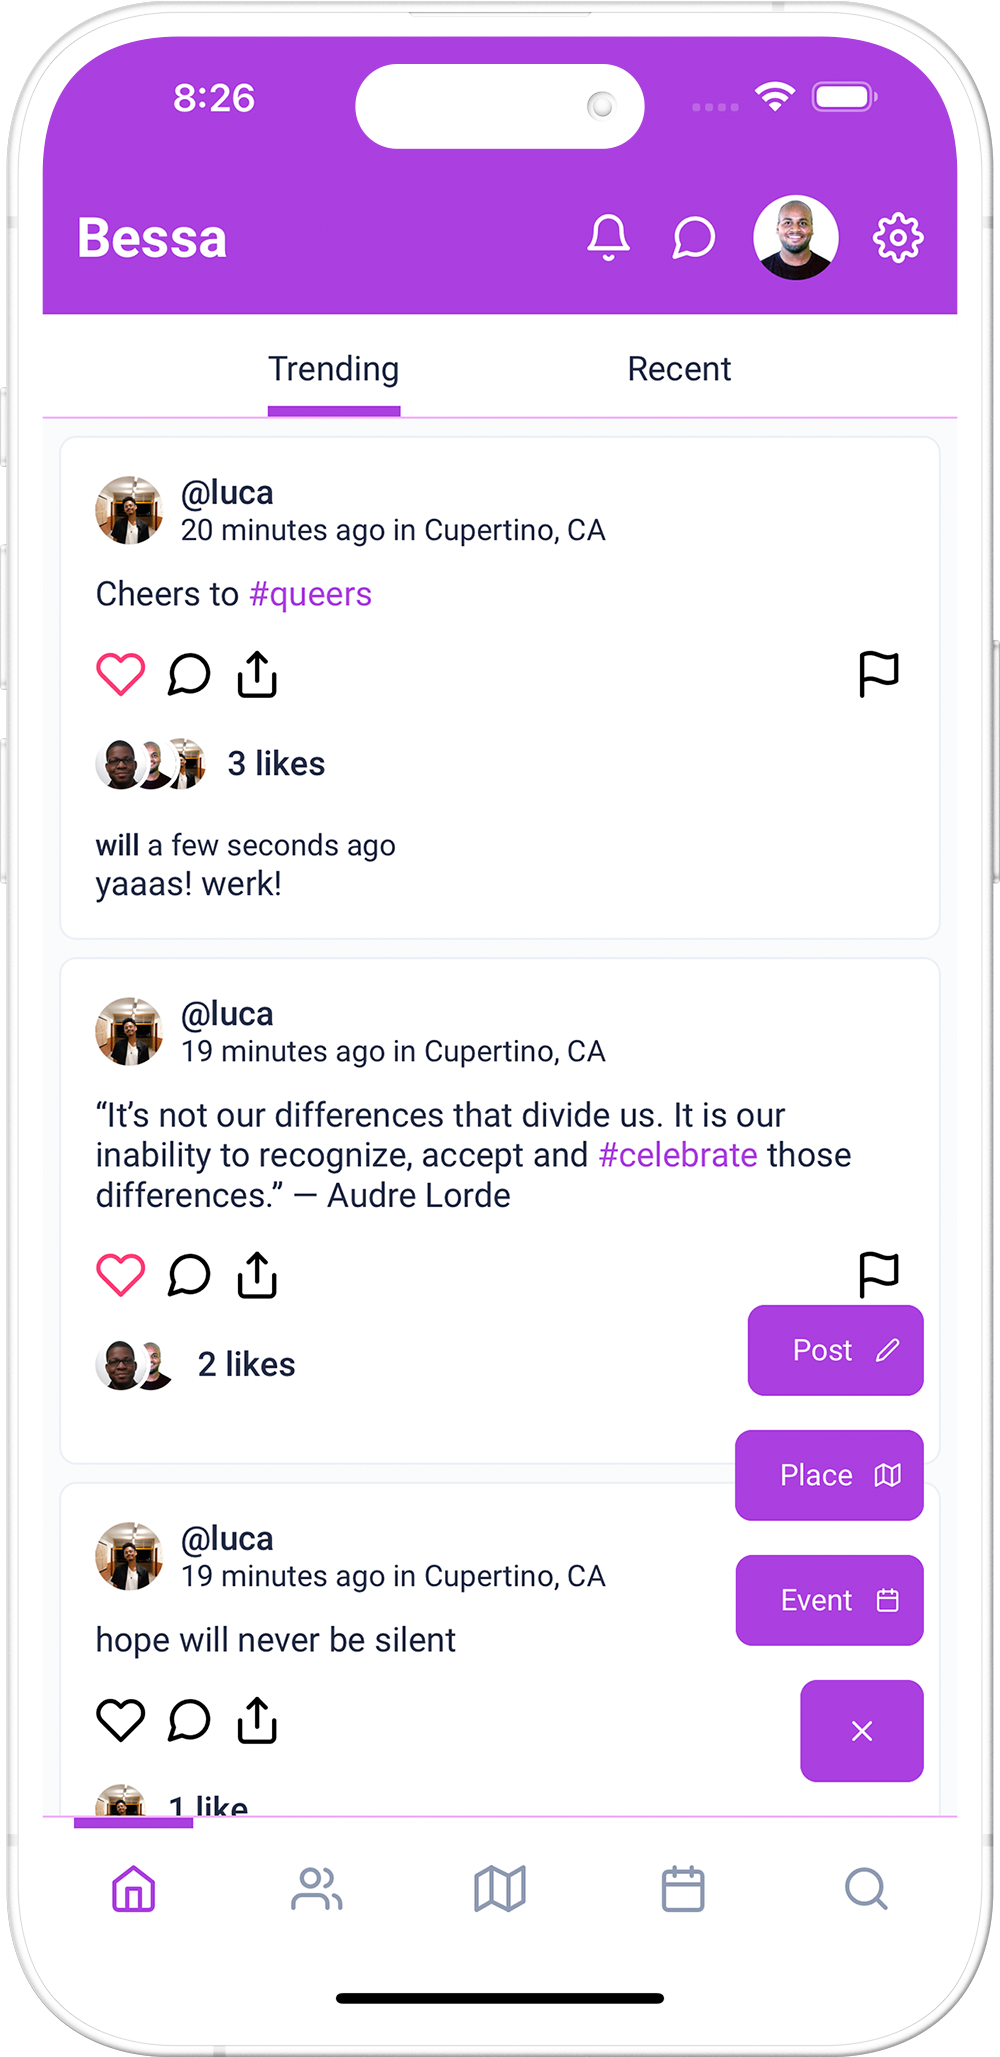
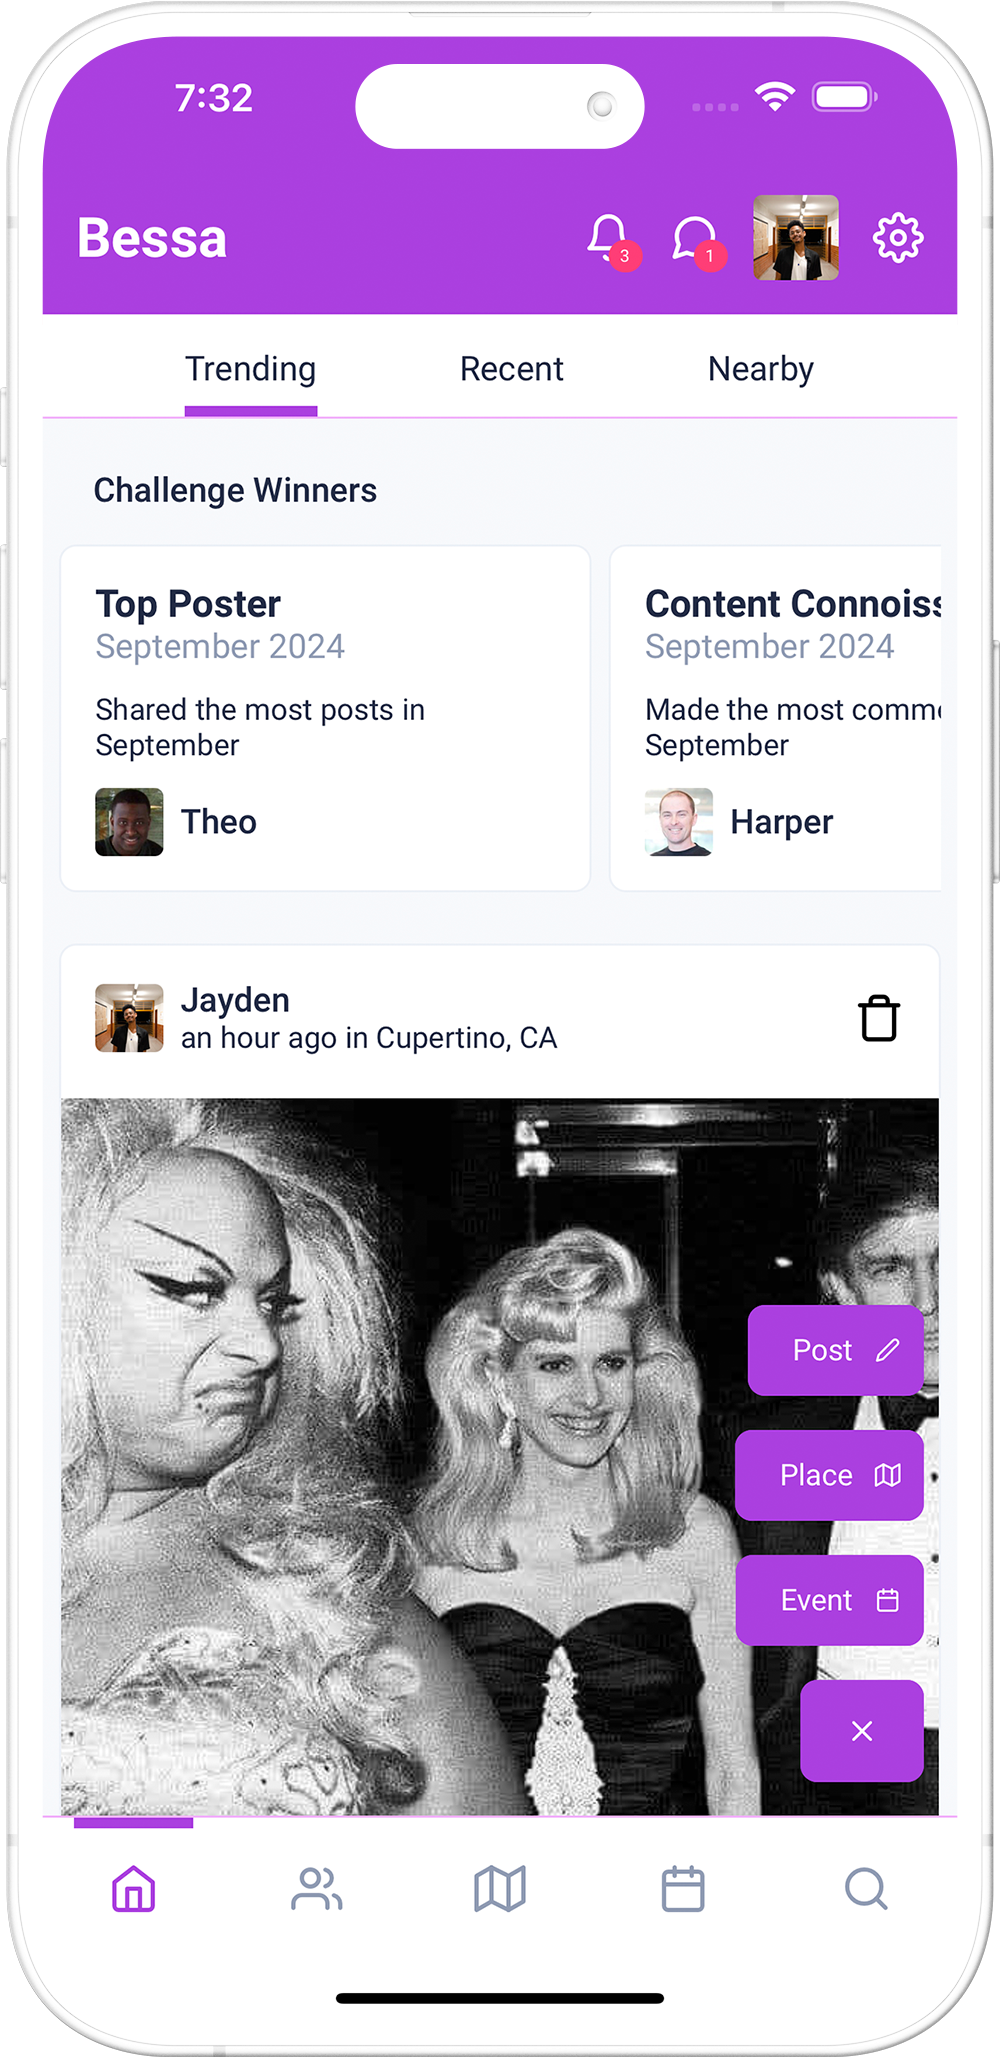
Think twice, code once.

diff --git a/app/whats-new/page.js b/app/whats-new/page.js
@@ -34,8 +34,8 @@ const jsonLd = {
 export default function WhatsNew() {
   const changes = [
     {
-      button: "Coming Soon",
-      items: ["UI Updates", "LGBTQ Posts and Events Fixes"]
+      button: "1.6.36",
+      items: ["Achievements", "UI Updates", "LGBTQ Posts and Events Fixes"]
     },
     {
       button: "1.6.35",
